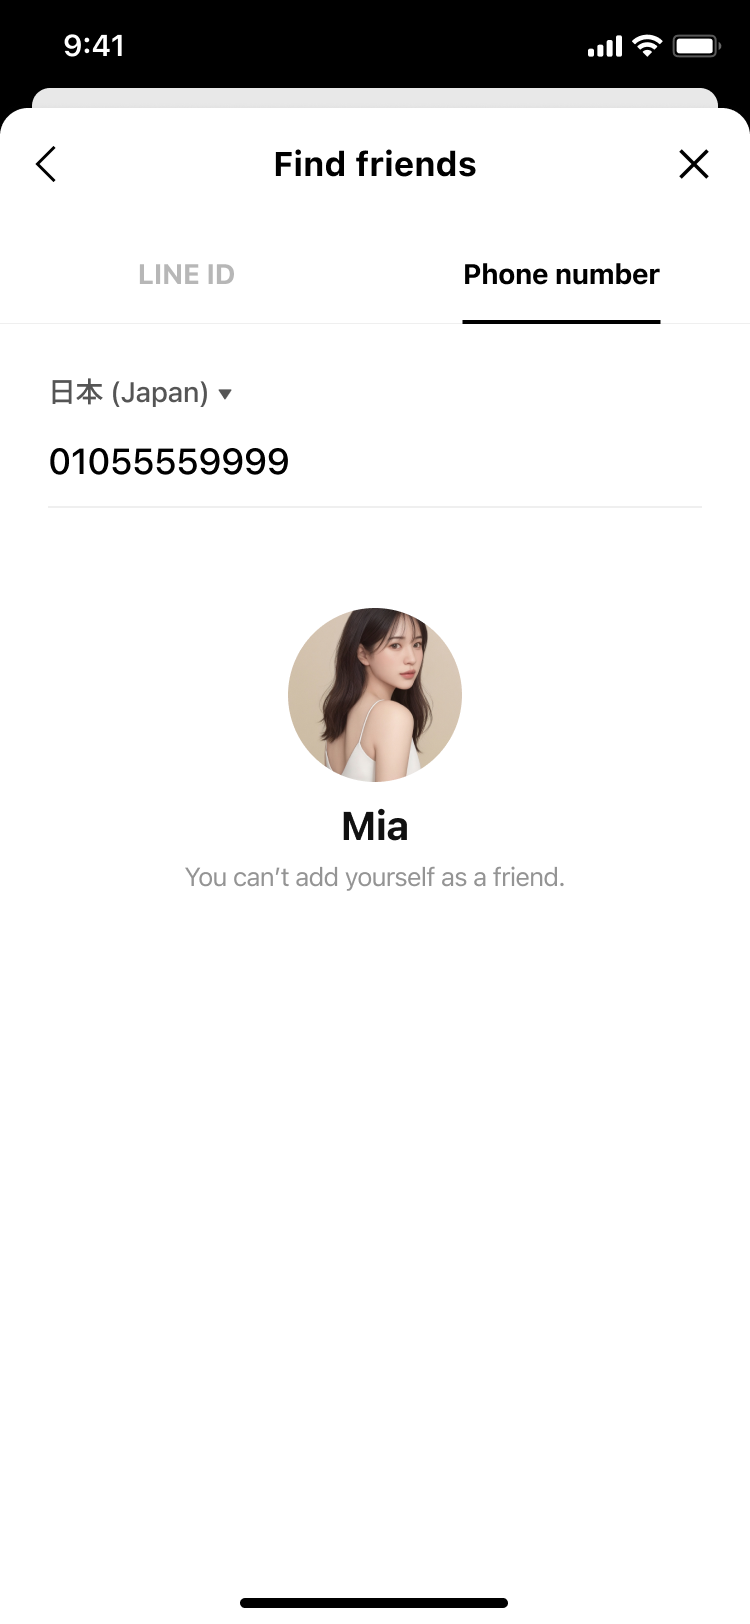
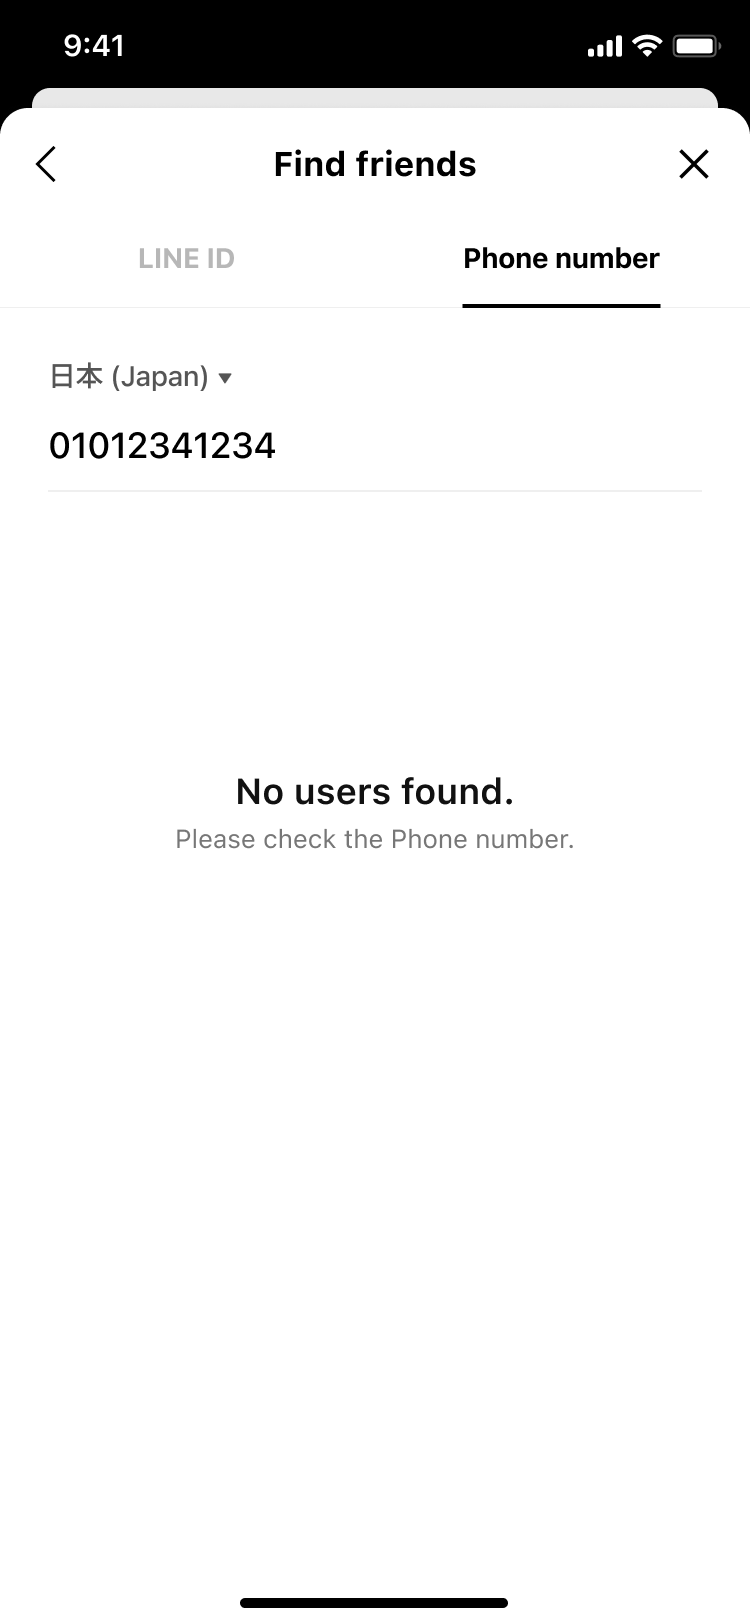
Add interactive prototype feature with screen navigation
- Add interactive prototype tab with sub-navigation (ID/Phone/QR)
- Implement screen-by-screen navigation controls
- Update all design screen images (F-1 to F-14)
- Add thumbnail navigation for quick screen access
- Improve mobile responsiveness for prototype view

diff --git a/index.html b/index.html
@@ -672,6 +672,190 @@
                 font-size: 1.25rem;
             }
         }
+
+        /* Interactive Prototype Styles */
+        .interactive-prototype {
+            background: #ffffff;
+            border-radius: 16px;
+            padding: 32px;
+            box-shadow: 0 2px 8px rgba(0, 0, 0, 0.08);
+            max-width: 1200px;
+            margin: 0 auto;
+        }
+
+        .prototype-container {
+            margin-bottom: 32px;
+        }
+
+        .sub-tabs {
+            display: flex;
+            border-bottom: 2px solid #e2e8f0;
+            margin-bottom: 32px;
+        }
+
+        .sub-tab {
+            flex: 1;
+            padding: 16px 24px;
+            background: none;
+            border: none;
+            font-size: 1rem;
+            font-weight: 600;
+            color: #64748b;
+            cursor: pointer;
+            transition: all 0.2s ease;
+            border-bottom: 2px solid transparent;
+            margin-bottom: -2px;
+        }
+
+        .sub-tab:hover {
+            color: #0f172a;
+        }
+
+        .sub-tab.active {
+            color: #0f172a;
+            border-bottom-color: #0f172a;
+        }
+
+        .prototype-content {
+            display: flex;
+            flex-direction: column;
+            align-items: center;
+        }
+
+        .screen-nav-controls {
+            display: flex;
+            align-items: center;
+            justify-content: center;
+            gap: 24px;
+            margin-bottom: 24px;
+            width: 100%;
+            position: relative;
+        }
+
+        .screen-nav-btn {
+            padding: 10px 20px;
+            background: #f1f5f9;
+            border: none;
+            border-radius: 8px;
+            font-size: 0.9rem;
+            font-weight: 600;
+            color: #0f172a;
+            cursor: pointer;
+            transition: all 0.2s ease;
+        }
+
+        .screen-nav-btn:hover {
+            background: #e2e8f0;
+        }
+
+        .screen-counter {
+            font-size: 0.9rem;
+            font-weight: 600;
+            color: #64748b;
+        }
+
+        .main-screen-preview {
+            display: flex;
+            justify-content: center;
+            margin-bottom: 24px;
+        }
+
+        .final-main-screen {
+            width: 280px;
+            height: auto;
+            border-radius: 24px;
+            box-shadow: 0 8px 24px rgba(0, 0, 0, 0.15);
+        }
+
+        .final-thumbnails {
+            display: flex;
+            justify-content: center;
+            gap: 12px;
+            flex-wrap: wrap;
+        }
+
+        .final-thumbnail {
+            width: 80px;
+            height: auto;
+            border: 2px solid #e2e8f0;
+            border-radius: 8px;
+            overflow: hidden;
+            cursor: pointer;
+            transition: all 0.2s ease;
+            background: none;
+            padding: 0;
+        }
+
+        .final-thumbnail:hover {
+            border-color: #cbd5e1;
+            transform: scale(1.05);
+        }
+
+        .final-thumbnail.active {
+            border-color: #06C755;
+            transform: scale(1.05);
+        }
+
+        .final-thumbnail img {
+            width: 100%;
+            height: auto;
+            display: block;
+        }
+
+        .prototype-details {
+            background: #f8fafc;
+            padding: 24px;
+            border-radius: 12px;
+            border-top: 1px solid #e2e8f0;
+        }
+
+        .details-grid {
+            display: grid;
+            grid-template-columns: 1fr 1fr;
+            gap: 24px;
+            margin-top: 16px;
+        }
+
+        .details-subtitle {
+            font-size: 0.9rem;
+            font-weight: 700;
+            color: #64748b;
+            margin-bottom: 12px;
+        }
+
+        .details-list {
+            list-style: none;
+            padding: 0;
+        }
+
+        .details-list li {
+            font-size: 0.9rem;
+            color: #0f172a;
+            margin-bottom: 8px;
+            padding-left: 16px;
+            position: relative;
+        }
+
+        .details-list li:before {
+            content: "•";
+            position: absolute;
+            left: 0;
+            color: #64748b;
+        }
+
+        @media (max-width: 768px) {
+            .details-grid {
+                grid-template-columns: 1fr;
+            }
+
+            .final-main-screen {
+                width: 240px;
+            }
+
+            .final-thumbnail {
+                width: 60px;
+            }
+        }
     </style>
 </head>
 <body>
@@ -960,72 +1144,76 @@
                 </div>
             </div>
 
-            <h3 class="screens-section-title">All Screens</h3>
+            <h3 class="screens-section-title">Interactive Prototype</h3>
 
-            <div class="final-screens-grid">
-                <div class="final-screen-card">
-                    <img src="F-1.png" alt="기본 화면 - ID 탭" class="final-screen-image">
-                    <div class="final-screen-label">01 · 기본 화면 (ID 탭 선택)</div>
+            <!-- Interactive Tab Section -->
+            <div class="interactive-prototype">
+                <div class="prototype-container">
+                    <!-- Sub Tabs for LINE ID / Phone number -->
+                    <div class="sub-tabs">
+                        <button class="sub-tab active" data-subtab="line-id">LINE ID</button>
+                        <button class="sub-tab" data-subtab="phone">Phone number</button>
+                    </div>
+
+                    <!-- Content Area -->
+                    <div class="prototype-content">
+                        <!-- Screen Navigation -->
+                        <div class="screen-nav-controls">
+                            <button class="screen-nav-btn" id="finalPrevBtn">← 이전</button>
+                            <span class="screen-counter" id="finalScreenCounter">화면 1 / 6</span>
+                            <button class="screen-nav-btn" id="finalNextBtn">다음 →</button>
+                        </div>
+
+                        <!-- Main Screen Preview -->
+                        <div class="main-screen-preview">
+                            <img src="F-1.png" alt="Screen 1" id="finalMainScreen" class="final-main-screen">
+                        </div>
+
+                        <!-- Thumbnails -->
+                        <div class="final-thumbnails">
+                            <button class="final-thumbnail active" data-screen="0">
+                                <img src="F-1.png" alt="Thumbnail 1">
+                            </button>
+                            <button class="final-thumbnail" data-screen="1">
+                                <img src="F-2.png" alt="Thumbnail 2">
+                            </button>
+                            <button class="final-thumbnail" data-screen="2">
+                                <img src="F-3.png" alt="Thumbnail 3">
+                            </button>
+                            <button class="final-thumbnail" data-screen="3">
+                                <img src="F-4.png" alt="Thumbnail 4">
+                            </button>
+                            <button class="final-thumbnail" data-screen="4">
+                                <img src="F-5.png" alt="Thumbnail 5">
+                            </button>
+                            <button class="final-thumbnail" data-screen="5">
+                                <img src="F-6.png" alt="Thumbnail 6">
+                            </button>
+                        </div>
+                    </div>
                 </div>
-                <div class="final-screen-card">
-                    <img src="F-2.png" alt="기본 화면 - 전화번호 탭" class="final-screen-image">
-                    <div class="final-screen-label">02 · 기본 화면 (검색중)</div>
-                </div>
-                <div class="final-screen-card">
-                    <img src="F-3.png" alt="검색 결과 - 아직 친구가 아님" class="final-screen-image">
-                    <div class="final-screen-label">03 · 검색 결과 (친구 아님)</div>
-                </div>
-                <div class="final-screen-card">
-                    <img src="F-4.png" alt="검색 결과 - 차단 버튼 포함" class="final-screen-image">
-                    <div class="final-screen-label">04 · 검색 결과 (차단 옵션 포함)</div>
-                </div>
-                <div class="final-screen-card">
-                    <img src="F-5.png" alt="검색 결과 - 이미 친구" class="final-screen-image">
-                    <div class="final-screen-label">05 · 검색 결과 (이미 친구)</div>
-                </div>
-                <div class="final-screen-card">
-                    <img src="F-6.png" alt="자기 자신 검색" class="final-screen-image">
-                    <div class="final-screen-label">06 · 자기 자신 검색</div>
-                </div>
-                <div class="final-screen-card">
-                    <img src="F-7.png" alt="검색 결과 없음 (아이콘 포함)" class="final-screen-image">
-                    <div class="final-screen-label">07 · 검색 결과 없음 (아이콘 O)</div>
-                </div>
-                <div class="final-screen-card">
-                    <img src="F-8.png" alt="검색 결과 없음 (아이콘 없음)" class="final-screen-image">
-                    <div class="final-screen-label">08 · 검색 결과 없음 (아이콘 X)</div>
-                </div>
-                <div class="final-screen-card">
-                    <img src="F-9.png" alt="기본 화면 - 전화번호 탭" class="final-screen-image">
-                    <div class="final-screen-label">09 · 기본 화면 (전화번호 탭 선택)</div>
-                </div>
-                <div class="final-screen-card">
-                    <img src="F-10.png" alt="기본 화면 - LINE ID 탭" class="final-screen-image">
-                    <div class="final-screen-label">10 · 기본 화면 (검색중)</div>
-                </div>
-                <div class="final-screen-card">
-                    <img src="F-11.png" alt="검색 결과 - 친구 아님" class="final-screen-image">
-                    <div class="final-screen-label">11 · 검색 결과 (친구 아님)</div>
-                </div>
-                <div class="final-screen-card">
-                    <img src="F-12.png" alt="검색 결과 - 차단 옵션 포함" class="final-screen-image">
-                    <div class="final-screen-label">12 · 검색 결과 (차단 옵션 포함)</div>
-                </div>
-                <div class="final-screen-card">
-                    <img src="F-13.png" alt="검색 결과 - 이미 친구" class="final-screen-image">
-                    <div class="final-screen-label">13 · 검색 결과 (이미 친구)</div>
-                </div>
-                <div class="final-screen-card">
-                    <img src="F-14.png" alt="자기 자신 검색" class="final-screen-image">
-                    <div class="final-screen-label">14 · 자기 자신 검색</div>
-                </div>
-                <div class="final-screen-card">
-                    <img src="F-15.png" alt="검색 결과 없음 (아이콘 O)" class="final-screen-image">
-                    <div class="final-screen-label">15 · 검색 결과 없음 (아이콘 O)</div>
-                </div>
-                <div class="final-screen-card">
-                    <img src="F-16.png" alt="검색 결과 없음 (아이콘 X)" class="final-screen-image">
-                    <div class="final-screen-label">16 · 검색 결과 없음 (아이콘 X)</div>
+
+                <!-- Details -->
+                <div class="prototype-details">
+                    <h3 class="summary-title">Type E: Full-width Tabs (전체 너비 탭)</h3>
+                    <div class="details-grid">
+                        <div>
+                            <h4 class="details-subtitle">✅ 장점</h4>
+                            <ul class="details-list">
+                                <li>낮은 화면 밀도로 콘텐츠 집중도가 높음</li>
+                                <li>LINE Design System 가이드라인 준수</li>
+                                <li>명확한 시각적 위계</li>
+                                <li>터치하기 쉬운 크기 (최소 44px)</li>
+                            </ul>
+                        </div>
+                        <div>
+                            <h4 class="details-subtitle">📝 특징</h4>
+                            <ul class="details-list">
+                                <li>2개의 고정 탭 구조</li>
+                                <li>탭 확장 불필요 (LINE ID / 전화번호만 사용)</li>
+                            </ul>
+                        </div>
+                    </div>
                 </div>
             </div>
         </div>
